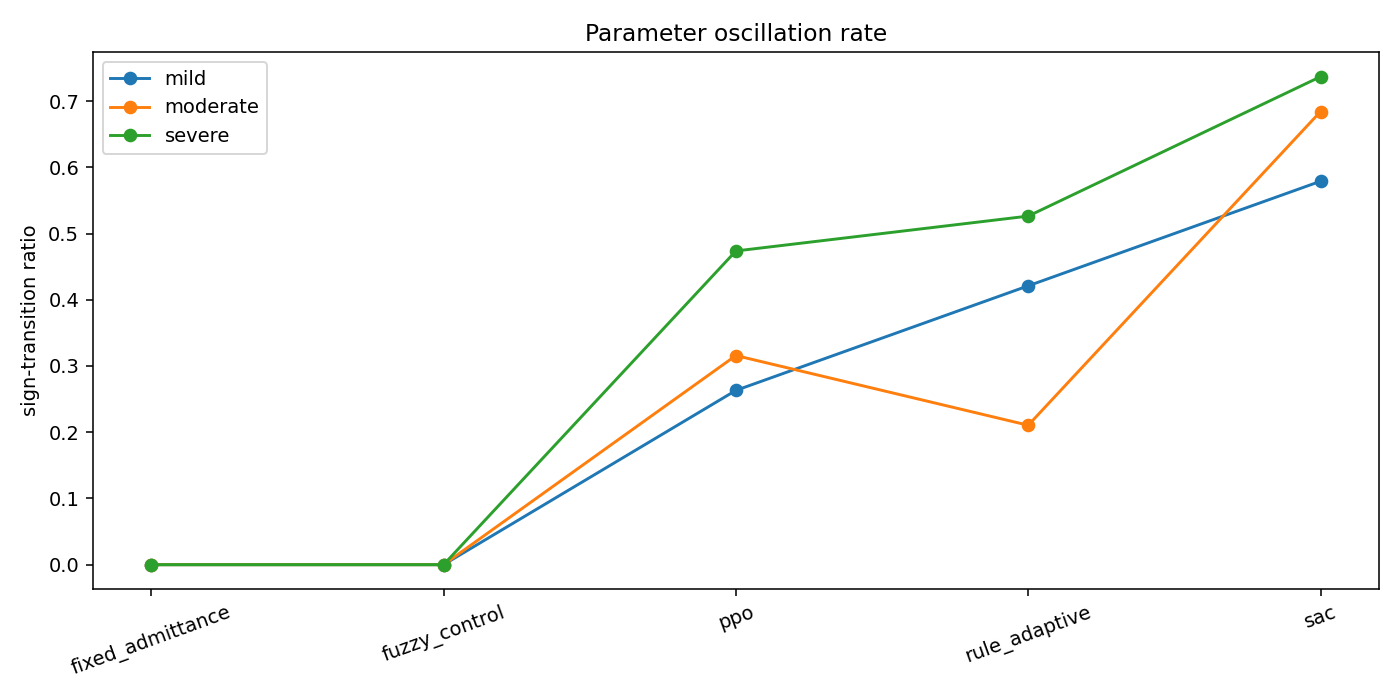
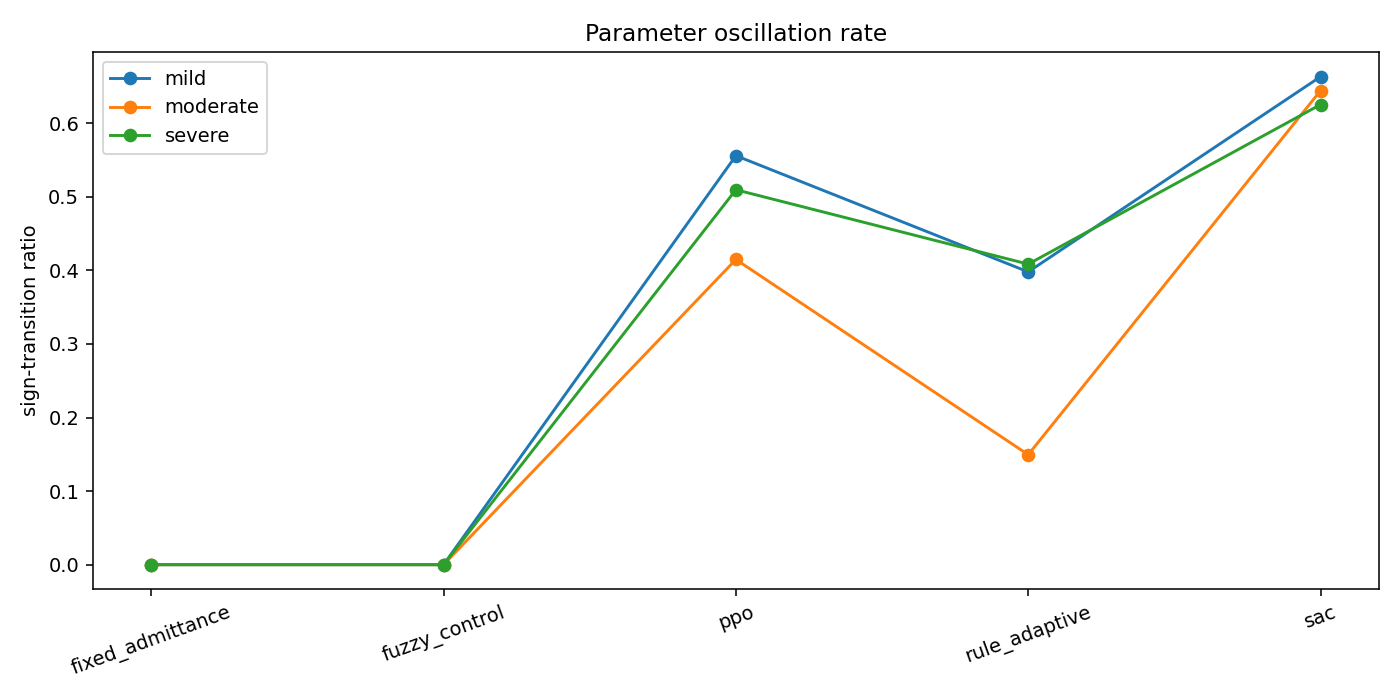
docs: 用完整实验数据更新实验图表并补充成功率解读
- 重跑 Phase 10 完整实验（5 种子 × 5 episodes × 5 方法 × 3 患者）替代 quick 数据
- 成功率全 1.0 为真实结果：任务安全底线，方法差异体现在误差/交互力/主动参与度
- README 补充成功率口径说明与关键指标差异分析

diff --git a/README.md b/README.md
@@ -148,7 +148,9 @@ flowchart TB
 
 ## 六、实验结果
 
-以 SAC 为主算法，与 PPO、固定导纳、规则自适应、模糊控制共**五种方法**在轻/中/重度虚拟患者上对比，评估成功率、安全终止率、跟踪误差、峰值交互力、患者主动做功占比、辅助能量与参数振荡率。
+以 SAC 为主算法，与 PPO、固定导纳、规则自适应、模糊控制共**五种方法**在轻/中/重度虚拟患者上对比（每条件 5 随机种子 × 5 episodes），评估成功率、安全终止率、跟踪误差、峰值交互力、患者主动做功占比、辅助能量与参数振荡率。
+
+> **关于成功率**：五种方法均实现 100% 安全完成率——这是康复系统所有方法必须满足的安全底线。方法间的核心差异体现在质量指标上：**SAC 跟踪误差最低**（轻度 0.0129 vs 固定导纳 0.0132）且峰值交互力更低；**重度患者下模糊控制的患者主动参与度降至 0.62**（过度辅助压制了患者主动性），而 SAC/规则自适应保持在 0.83/0.87，验证了自适应辅助的价值；固定导纳参数振荡率为 0（不调参），SAC 主动调参（振荡率 0.63–0.66）但换来更优的跟踪与更低的交互力。
 
 <p align="center">
   <img src="docs/images/exp_success_rate.png" width="90%" alt="成功率对比"/>
